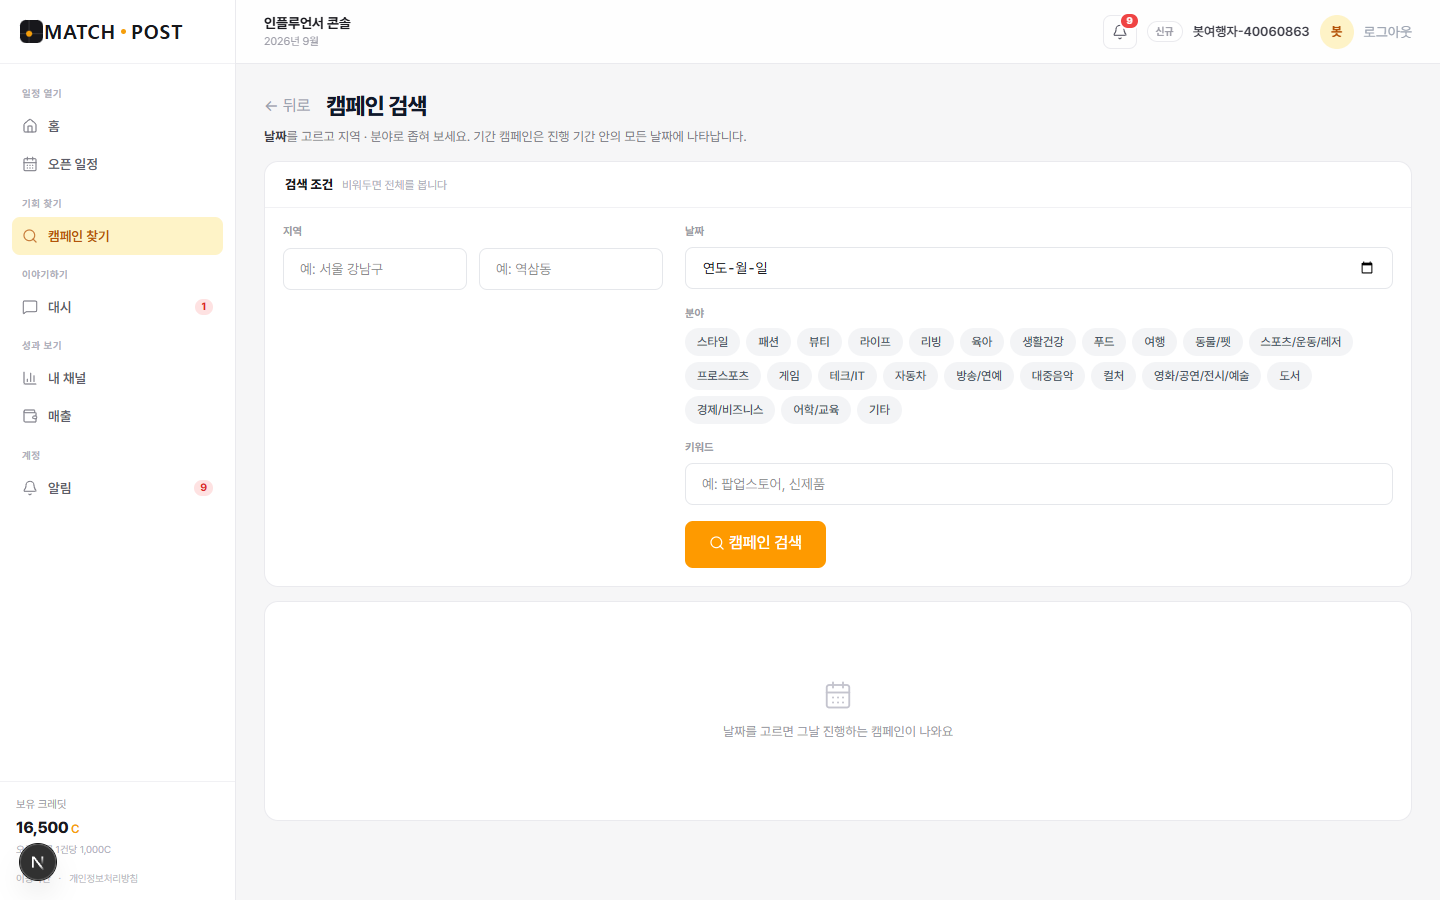
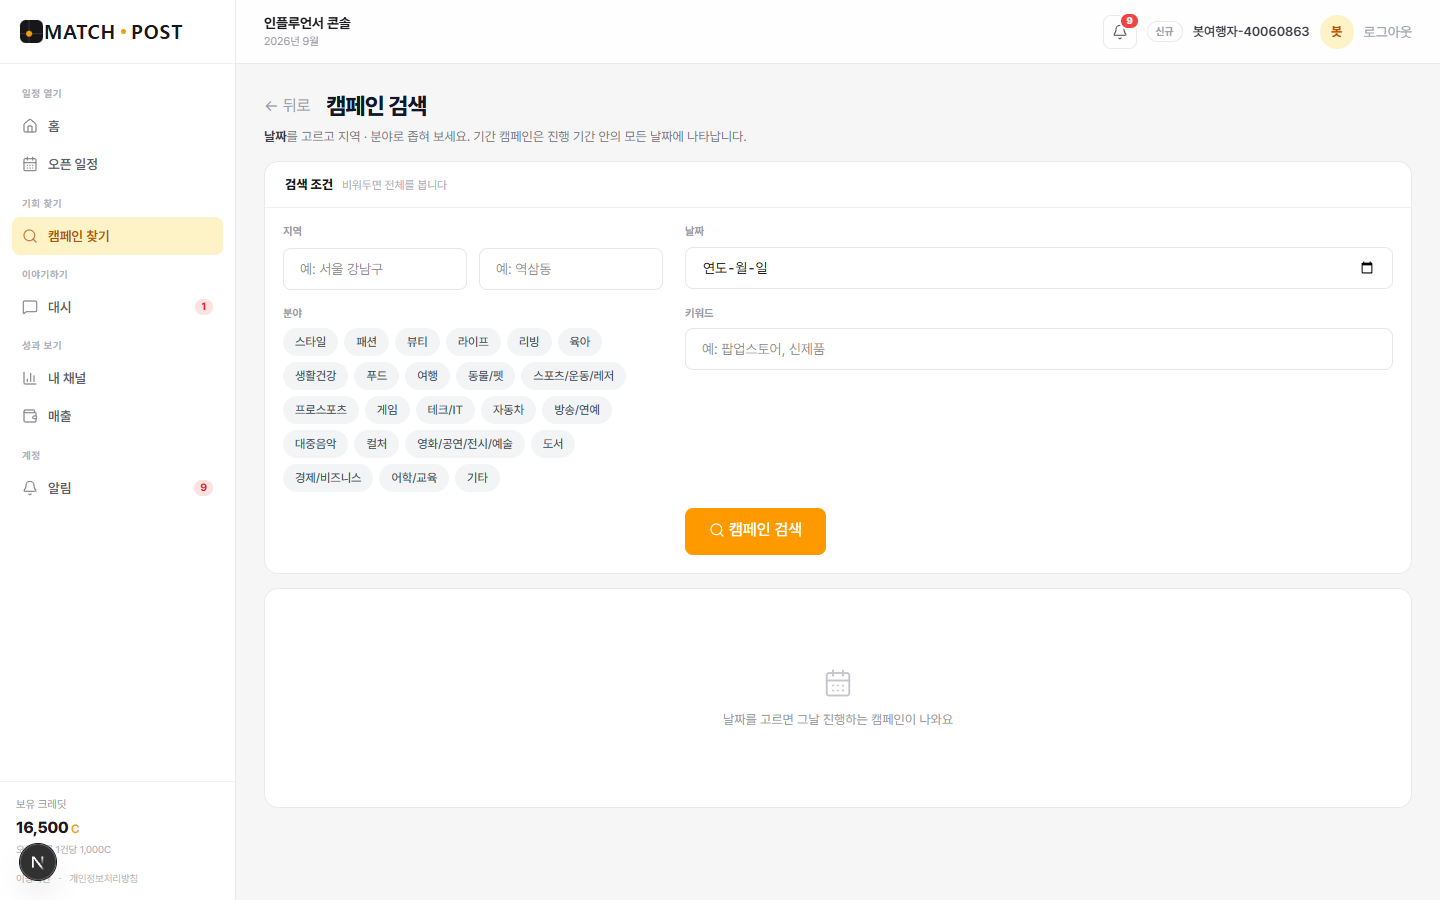
fix(pc): 검색 조건 좌측에 분야를 옮겨 「좁히는 조건」을 한쪽에 모은다
D34 프롬프트2 ①. 좌측이 비어 보이던 건 광고주 필터가 없어서가 아니라
좁히는 조건이 좌우로 갈려 있었기 때문이다.

  좌 380px  지역 + 분야         ← 좁히는 조건. 성격이 같아 함께 둔다
  우 나머지  날짜 + 키워드 + 검색 ← 날짜가 이 화면의 주 조건이라 우측 위다

- 분야를 col-start-2 row-start-2 → col-start-1 row-start-2 로,
  키워드·검색을 한 줄씩 위로(row 3·4 → 2·3)
- 모바일은 건드리지 않는다. DOM 순서 그대로라 필드 순서는
  날짜 → 시/구·동 → 키워드 → 분야 → 검색 그대로다
  (캡처가 커밋본과 바이트까지 같다)

광고주 필터는 넣지 않는다 — 광고주로 캠페인을 찾는 일이 드물고,
브랜드명(campaigns.brand_name)과 회사명(advertiser_public 뷰)이 두 자리에 있어
ilike 한 줄로 안 된다. 7열 달력도 별건으로 둔다(광고주 검색 D11 2단계에 이미 있다).

핸드오프 PROMPT-2.md 를 docs/design/d34/ 에 넣는다.

검증: build 성공 · 45개 화면 두 폭 · 갇힘 0 · 쪼그라듦 0 · 가로스크롤 0
      inf-search 첫칸 PC 1148px · 모바일 358px

diff --git a/src/app/(dashboard)/influencer/search/page.tsx b/src/app/(dashboard)/influencer/search/page.tsx
@@ -145,7 +145,10 @@ export default function InfluencerSearchPage() {
 
         {/* DOM 순서는 모바일 순서 그대로 둔다(날짜 → 지역 → 키워드 → 분야 → 버튼).
             PC 두 칸은 order 가 아니라 grid 자리지정(col-start/row-start)으로 만든다 —
-            order 로 옮기면 탭 순서가 눈에 보이는 순서와 어긋난다. */}
+            order 로 옮기면 탭 순서가 눈에 보이는 순서와 어긋난다.
+
+            좌 380px  지역 + 분야         ← 좁히는 조건. 성격이 같아 함께 둔다
+            우 나머지  날짜 + 키워드 + 검색 ← 날짜가 이 화면의 주 조건이라 우측 위다 */}
         <div className="lg:[.inf-pc_&]:grid lg:[.inf-pc_&]:grid-cols-[380px_minmax(0,1fr)] lg:[.inf-pc_&]:gap-x-[22px] lg:[.inf-pc_&]:gap-y-4 lg:[.inf-pc_&]:items-start lg:[.inf-pc_&]:px-[18px] lg:[.inf-pc_&]:pt-4 lg:[.inf-pc_&]:pb-[18px]">
           {/* 날짜 — PC 우측 첫 줄 */}
           <div className="mb-3 lg:[.inf-pc_&]:mb-0 lg:[.inf-pc_&]:col-start-2 lg:[.inf-pc_&]:row-start-1">
@@ -170,15 +173,15 @@ export default function InfluencerSearchPage() {
             </div>
           </div>
 
-          {/* 키워드 — PC 우측 셋째 줄 */}
-          <div className="mb-4 lg:[.inf-pc_&]:mb-0 lg:[.inf-pc_&]:col-start-2 lg:[.inf-pc_&]:row-start-3">
+          {/* 키워드 — PC 우측 둘째 줄 */}
+          <div className="mb-4 lg:[.inf-pc_&]:mb-0 lg:[.inf-pc_&]:col-start-2 lg:[.inf-pc_&]:row-start-2">
             <label className="block text-sm text-gray-500 mb-1 lg:[.inf-pc_&]:text-[11px] lg:[.inf-pc_&]:font-bold lg:[.inf-pc_&]:text-[#9A9AA5] lg:[.inf-pc_&]:mb-[7px]">키워드</label>
             <input type="text" value={keyword} onChange={(e) => setKeyword(e.target.value)}
               className={inputCls} placeholder="예: 팝업스토어, 신제품" />
           </div>
 
-          {/* 분야 — PC 우측 둘째 줄 */}
-          <div className="mb-4 lg:[.inf-pc_&]:mb-0 lg:[.inf-pc_&]:col-start-2 lg:[.inf-pc_&]:row-start-2">
+          {/* 분야 — PC 좌측 둘째 줄. 지역과 같은 「좁히는 조건」이라 아래에 붙인다 */}
+          <div className="mb-4 lg:[.inf-pc_&]:mb-0 lg:[.inf-pc_&]:col-start-1 lg:[.inf-pc_&]:row-start-2 lg:[.inf-pc_&]:min-w-0">
             <label className="block text-sm text-gray-500 mb-2 lg:[.inf-pc_&]:text-[11px] lg:[.inf-pc_&]:font-bold lg:[.inf-pc_&]:text-[#9A9AA5] lg:[.inf-pc_&]:mb-[7px]">분야</label>
             <div className="flex flex-wrap gap-1.5">
               {INFLUENCER_CATEGORIES.map((cat) => (
@@ -190,8 +193,8 @@ export default function InfluencerSearchPage() {
             </div>
           </div>
 
-          {/* 검색 — PC 우측 넷째 줄 */}
-          <div className="lg:[.inf-pc_&]:col-start-2 lg:[.inf-pc_&]:row-start-4">
+          {/* 검색 — PC 우측 셋째 줄 */}
+          <div className="lg:[.inf-pc_&]:col-start-2 lg:[.inf-pc_&]:row-start-3">
             <button onClick={handleSearch} disabled={loading}
               className="w-full bg-amber-500 text-white py-2.5 rounded-lg font-medium hover:bg-amber-600 transition disabled:opacity-50 lg:[.inf-pc_&]:w-auto lg:[.inf-pc_&]:px-6">
               {loading ? '검색 중...' : <span className="inline-flex items-center gap-1"><Search size={16} strokeWidth={1.75} /> 캠페인 검색</span>}

diff --git a/docs/design/d34/PROMPT-2.md b/docs/design/d34/PROMPT-2.md
@@ -1,0 +1,63 @@
+# VS Code 프롬프트 2 (D34) — 검색 마무리 · 설정
+
+아래 블록을 그대로 복사해 붙여넣으세요.
+
+---
+
+```
+검색 잘 됐어. order 대신 col-start/row-start 를 쓴 판단이 맞아 —
+order 는 탭 순서와 눈에 보이는 순서를 어긋나게 해.
+추천 절을 안 넣은 것도 맞아. 데이터 소스가 없으면 빈 절을 만들지 않아.
+
+[① 광고주 필터] 넣지 마. 대신 좌측에 「분야」를 옮겨줘.
+
+  광고주로 캠페인을 찾는 일은 드물고, 브랜드명(campaigns.brand_name)과
+  회사명(advertiser_public 뷰)이 두 자리에 있어 쿼리가 복잡해져.
+
+  좌측이 비어 보이는 건 다른 이유야 — 좁히는 조건이 좌우로 갈려 있어:
+
+    좌 380px   지역 + 분야          ← 좁히는 조건
+    우 나머지   날짜 + 키워드 + 검색  ← 날짜가 주 조건
+
+  날짜가 이 화면의 주 조건이라 우측 위가 맞고,
+  지역·분야는 성격이 같아 함께 두면 좌측이 채워져.
+
+  ⚠ 모바일 순서는 지금 그대로 둬 — 날짜 → 시/구·동 → 키워드 → 분야 → 검색.
+     PC 에서만 분야가 좌측으로 가면 돼 (col-start/row-start 로).
+
+[② 모바일 3가지] 셋 다 그대로 둬. 되돌리지 마.
+  · 부제 — 기간 캠페인 규칙은 모바일에서도 알아야 해
+  · 「카테고리」 → 「분야」 — 용어 통일은 프로젝트 규칙이고, 이 화면만 달랐던 게 결함이야
+  · 빈 상태 — 모바일에서도 빈 화면이 뜨면 안 돼
+
+[③ 7열 달력] 별건으로 둬.
+  광고주 검색에는 이미 있어(D11 2단계). 나중에 같은 것을 인플루언서 검색에도 붙이면 돼.
+  지금 <input type="date"> 로도 검색은 되니까.
+
+[그다음 — 설정] D34 문서 1절이야.
+
+  지금 입력칸이 전부 1100px 로 늘어나 세로 1900px 로 쌓여.
+  전화번호 한 칸이 1100px 인 게 모바일 폼을 늘린 증거야.
+
+  · 탭 3개로 나눠줘 — 프로필·채널 / 정산 계좌 / 크레딧.
+    그것만으로 세로 1900px 이 사라져
+  · ⚠ 탭마다 그리드가 달라. 하나로 통일하지 마 —
+      프로필   minmax(0,1fr) minmax(0,1fr)
+      정산계좌 minmax(0,1fr) 320px
+      크레딧   300px minmax(0,1fr)   ← 좌측이 검정 잔액 카드
+    이유가 있어: 프로필은 두 덩어리가 대등, 정산은 계좌가 주·안내가 보조,
+    크레딧은 잔액이 먼저 눈에 들어와야 해
+  · 입력칸은 카드 폭(약 580px)에 맞춰. 짧은 값(휴대폰·팔로워 수)은 카드 안에서 2열
+  · 카드 헤더 높이를 고정하지 마 — padding + align-items:center (프로젝트 규칙).
+    제목 아래 설명줄이 붙으면 고정 높이에서 위로 쏠려
+  · 저장은 SaveButton(D31 [4]) 그대로
+  · ⚠ 상단바 별명·아바타는 「기본 정보」와 항상 같은 값이어야 해 (아바타 = initialOf(별명))
+  · 탭 3개는 모바일에도 적용해줘 — 한 화면에 다 넣으면 모바일에서도 1900px 이야
+
+  ⚠ 정산 계좌·크레딧 탭에 넣을 내용이 지금 이 화면에 없으면 알려줘.
+     다른 화면(/credits 등)에 있으면 옮기지 말고 링크만 두는 게 맞을 수도 있어 —
+     그건 판단이 필요하니 멈추고 물어봐.
+
+①② 먼저 고치고 커밋, 그다음 설정으로 가줘.
+끝나면 두 폭 캡처와 grep 결과를 알려줘.
+```
